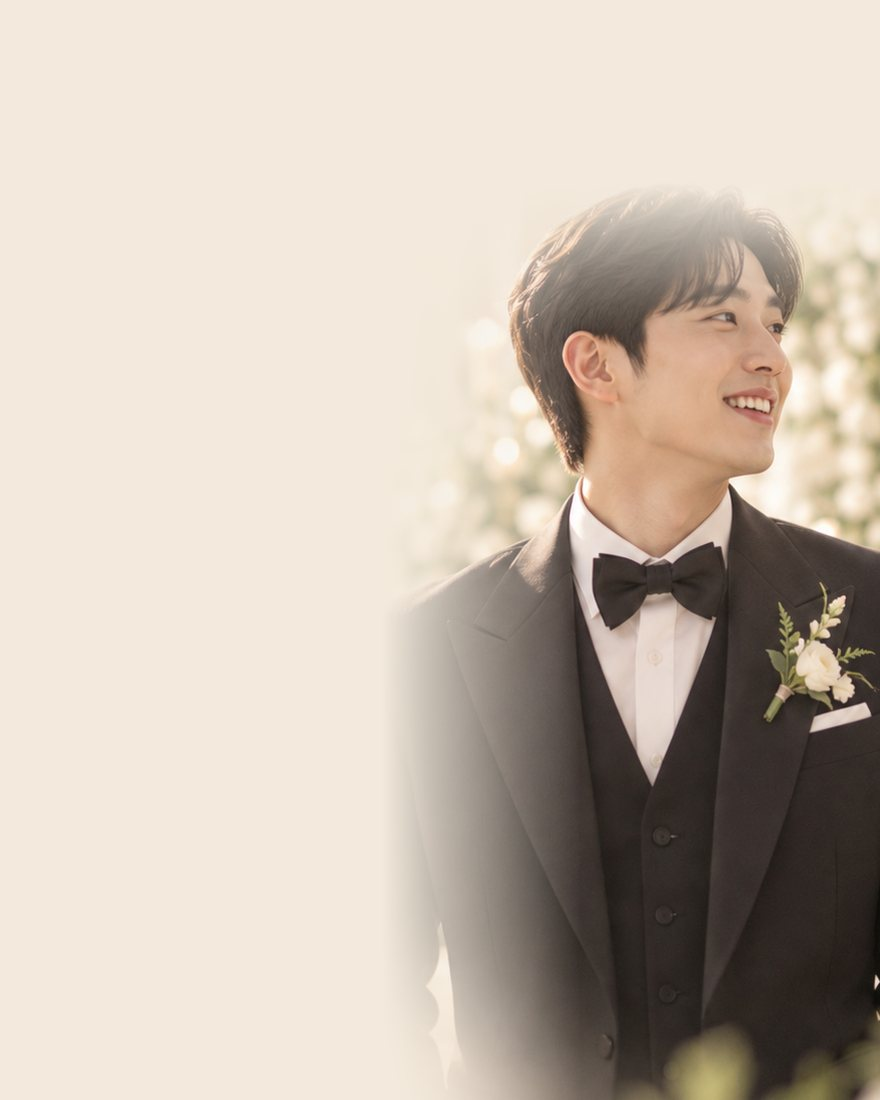
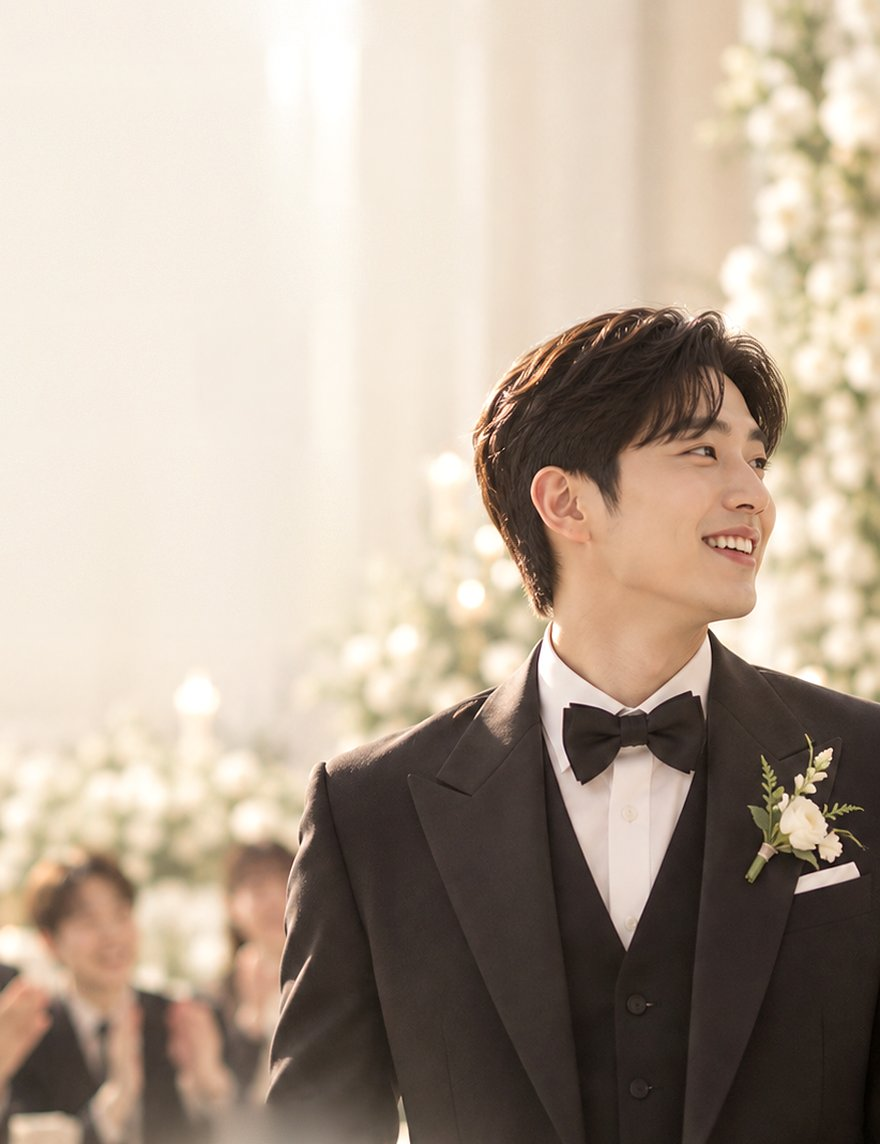
팝업 카드결제 장 사진 교체·가격안내 이벤트 스타일·요금제 순서 변경 (#22)
* 팝업 카드결제 장: 문구 테두리 제거·정렬, 밝은 여백에 예식장 사진 흐리게

Claude-Session: https://claude.ai/code/session_01DHJP4KRpMW8Vb4EdE8DdDH

* 팝업 카드결제 장 문구 칩 제거·배경 사진 선명하게, 가격안내 이벤트 문구·라벨 테두리 제거, 스탠다드·스몰양가 순서 변경

Claude-Session: https://claude.ai/code/session_01DHJP4KRpMW8Vb4EdE8DdDH

* 메인 요금 카드·예약 창 요금제 순서도 스몰케어→스탠다드→스몰양가→프리미엄으로

Claude-Session: https://claude.ai/code/session_01DHJP4KRpMW8Vb4EdE8DdDH

---------

diff --git a/src/app/pricing/page.tsx b/src/app/pricing/page.tsx
@@ -26,20 +26,20 @@ const CARDS = [
     bullets: ["하객 100명 이하 예식 (신랑측 또는 신부측)", "웨딩버틀러 2명 배정", "축의금 접수 · 봉투 번호 기록 · 하객 안내", "봉투 · 식대 집계 엑셀 파일 제공"],
   },
   {
-    plan: "smallboth" as const,
-    eyebrow: "02 SMALL BOTH",
-    name: "스몰양가",
-    priceWhole: "40",
-    dark: false,
-    bullets: ["양가 각 하객 60명 이하 예식", "웨딩버틀러 2명 배정", "양가 통합 축의대 1곳 운영 · 통합 기록", "봉투 · 식대 집계 엑셀 파일 제공"],
-  },
-  {
     plan: "standard" as const,
-    eyebrow: "03 STANDARD",
+    eyebrow: "02 STANDARD",
     name: "스탠다드",
     priceWhole: "45",
     dark: true,
     bullets: ["하객 101~200명 예식 (신랑측 또는 신부측, 200명 초과 시 1명당 2,000원 추가)", "웨딩버틀러 2명 배정", "스몰케어 구성 포함 · 정산 리포트 제공", "버틀러 추가 가능 (1명당 100,000원)"],
+  },
+  {
+    plan: "smallboth" as const,
+    eyebrow: "03 SMALL BOTH",
+    name: "스몰양가",
+    priceWhole: "40",
+    dark: false,
+    bullets: ["양가 각 하객 60명 이하 예식", "웨딩버틀러 2명 배정", "양가 통합 축의대 1곳 운영 · 통합 기록", "봉투 · 식대 집계 엑셀 파일 제공"],
   },
   {
     plan: "premium" as const,
@@ -70,22 +70,22 @@ const PRICING_LD = {
   })),
 };
 
-const COMPARE_HEAD = ["스몰케어", "스몰양가", "스탠다드", "프리미엄"];
+const COMPARE_HEAD = ["스몰케어", "스탠다드", "스몰양가", "프리미엄"];
 
 const COMPARE_ROWS: [string, string, string, string, string][] = [
-  ["기본 요금", "39만원", "40만원", "45만원", "80만원"],
-  ["축의대 유형", "한측 축의대", "양가 통합 (1곳)", "한측 축의대", "양가 분리 (2곳)"],
-  ["기준 하객", "100명 이하", "양가 각 60명 이하", "101~200명", "양가 합계 400명"],
+  ["기본 요금", "39만원", "45만원", "40만원", "80만원"],
+  ["축의대 유형", "한측 축의대", "한측 축의대", "양가 통합 (1곳)", "양가 분리 (2곳)"],
+  ["기준 하객", "100명 이하", "101~200명", "양가 각 60명 이하", "양가 합계 400명"],
   ["배정 버틀러", "2명", "2명", "2명", "4명"],
-  ["제공 자료", "봉투·식대 집계 엑셀", "봉투·식대 집계 엑셀", "정산 리포트", "정산 리포트"],
+  ["제공 자료", "봉투·식대 집계 엑셀", "정산 리포트", "봉투·식대 집계 엑셀", "정산 리포트"],
   ["기준 초과 하객", "1명당 2,000원", "1명당 2,000원", "1명당 2,000원", "1명당 2,000원"],
-  ["버틀러 추가", "해당 없음", "해당 없음", "1명 10만원", "1명 10만원"],
+  ["버틀러 추가", "해당 없음", "1명 10만원", "해당 없음", "1명 10만원"],
   ["개봉 집계", "무료", "무료", "무료", "무료"],
 ];
 
 const EVENT_ROW: [string, string, string, string, string] = [
   "연말 이벤트가",
-  ...(["small", "smallboth", "standard", "premium"] as const).map((k) => EVENT.prices[k] / 10000 + "만원"),
+  ...(["small", "standard", "smallboth", "premium"] as const).map((k) => EVENT.prices[k] / 10000 + "만원"),
 ] as [string, string, string, string, string];
 
 const EXTRA_COSTS = [
@@ -258,11 +258,15 @@ export default function PricingPage() {
         <h1 style={{ fontFamily: fontSerif, fontSize: "clamp(27px,6.2vw,40px)", fontWeight: 600, margin: "0 0 18px", letterSpacing: "-0.02em" }}>가격안내</h1>
         <p style={{ fontSize: 16, lineHeight: 1.9, color: "#6B5A60", margin: 0 }}>하객 규모와 축의대 유형에 맞춰 네 가지로 준비했습니다. 모든 금액은 부가세 포함입니다.</p>
         {eventOn && (
-          <div style={{ display: "inline-flex", flexWrap: "wrap", justifyContent: "center", alignItems: "center", gap: "6px 12px", marginTop: 24, padding: "12px 22px", borderRadius: 999, background: "#33232A", color: "#F3E9EB", fontSize: 14, lineHeight: 1.6 }}>
-            <span style={{ background: "#A9647E", color: "#FFFFFF", fontSize: 11.5, letterSpacing: "0.12em", padding: "3px 10px", borderRadius: 999 }}>EVENT</span>
-            <span>
-              {EVENT.name} · <b style={{ fontWeight: 500, color: "#FFFFFF" }}>{EVENT.label}</b> 이벤트가 적용 (밀봉 · 개봉 집계 모두)
-            </span>
+          <div style={{ marginTop: 30 }}>
+            <p style={{ fontFamily: fontDisplay, fontSize: 13, letterSpacing: "0.36em", color: "#A9647E", margin: "0 0 8px", display: "flex", alignItems: "center", justifyContent: "center", gap: 12 }}>
+              <span style={{ width: 28, height: 1, background: "#C99AAB" }} />
+              YEAR-END EVENT
+              <span style={{ width: 28, height: 1, background: "#C99AAB" }} />
+            </p>
+            <p style={{ fontSize: 15.5, lineHeight: 1.7, color: "#8E3F5F", margin: 0 }}>
+              {EVENT.name} · <b style={{ fontWeight: 600 }}>{EVENT.label}</b> 이벤트가 적용 <span style={{ color: "#9A8189" }}>(밀봉 · 개봉 집계 모두)</span>
+            </p>
           </div>
         )}
       </section>
@@ -306,7 +310,7 @@ export default function PricingPage() {
               </span>
               {eventPrice !== null && (
                 <div style={{ display: "flex", alignItems: "center", gap: 8, fontSize: 13 }}>
-                  <span style={{ background: "#A9647E", color: "#FFFFFF", fontSize: 11.5, padding: "3px 9px", borderRadius: 999 }}>연말 이벤트가</span>
+                  <span style={{ fontSize: 13, fontWeight: 600, letterSpacing: "0.02em", color: c.dark ? "#E9CAD1" : "#A9647E" }}>✦ 연말 이벤트가</span>
                   <span style={{ color: c.dark ? "#B79AA3" : "#A8959B", textDecoration: "line-through" }}>{c.priceWhole}만원</span>
                 </div>
               )}

diff --git a/src/components/home/HomePopup.tsx b/src/components/home/HomePopup.tsx
@@ -23,7 +23,6 @@ interface Slide {
   image: string;
   imagePosition: string;
   eyebrow?: string;
-  chip?: ReactNode;
   title: ReactNode;
   sub: ReactNode;
   highlight?: ReactNode;
@@ -33,16 +32,6 @@ interface Slide {
 
 function todayKst(): string {
   return new Date(Date.now() + 9 * 3600 * 1000).toISOString().slice(0, 10);
-}
-
-function CardIcon() {
-  return (
-    <svg width="22" height="16" viewBox="0 0 22 16" fill="none" aria-hidden="true">
-      <rect x="0.75" y="0.75" width="20.5" height="14.5" rx="2.5" stroke="#33232A" strokeWidth="1.5" />
-      <path d="M1 5h20" stroke="#33232A" strokeWidth="2" />
-      <path d="M4 11h5" stroke="#33232A" strokeWidth="1.5" strokeLinecap="round" />
-    </svg>
-  );
 }
 
 function buildSlides(): Slide[] {
@@ -75,12 +64,6 @@ function buildSlides(): Slide[] {
     theme: "light",
     image: "/popup/card-payment.jpg",
     imagePosition: "50% 50%",
-    chip: (
-      <>
-        <CardIcon />
-        전액 카드결제 가능
-      </>
-    ),
     title: (
       <>
         예약할 때 카드로,
@@ -286,23 +269,6 @@ export function HomePopup() {
                 <span style={{ width: 22, height: 1, background: "#F1D9DF", opacity: 0.8 }} />
                 {slide.eyebrow}
               </p>
-            )}
-            {slide.chip && (
-              <div
-                style={{
-                  display: "inline-flex",
-                  alignItems: "center",
-                  gap: 10,
-                  padding: "8px 14px 8px 10px",
-                  marginBottom: 16,
-                  fontSize: 13,
-                  borderRadius: 999,
-                  border: "1px solid #D9C6CC",
-                  background: "rgba(255,255,255,0.6)",
-                }}
-              >
-                {slide.chip}
-              </div>
             )}
             <h2 style={{ fontFamily: fontSerif, fontWeight: 600, fontSize: "clamp(26px,7vw,31px)", lineHeight: 1.35, margin: "0 0 12px", letterSpacing: "-0.02em" }}>{slide.title}</h2>
             <p style={{ fontSize: 14.5, lineHeight: 1.75, color: light ? "#5E4E54" : "rgba(255,255,255,0.86)", margin: 0 }}>{slide.sub}</p>

diff --git a/src/components/home/PriceTeaserCards.tsx b/src/components/home/PriceTeaserCards.tsx
@@ -31,12 +31,12 @@ const BULLETS: Record<PublicPlanKey, { text: string; muted?: boolean }[]> = {
 
 const EYEBROW: Record<PublicPlanKey, string> = {
   small: "01 SMALL CARE",
-  smallboth: "02 SMALL BOTH",
-  standard: "03 STANDARD",
+  smallboth: "03 SMALL BOTH",
+  standard: "02 STANDARD",
   premium: "04 PREMIUM",
 };
 
-const DELAY: Record<PublicPlanKey, number> = { small: 50, smallboth: 120, standard: 190, premium: 260 };
+const DELAY: Record<PublicPlanKey, number> = { small: 50, standard: 120, smallboth: 190, premium: 260 };
 
 export function PriceTeaserCards() {
   const [selected, setSelected] = useState<PublicPlanKey>("standard");

diff --git a/src/lib/plans.ts b/src/lib/plans.ts
@@ -12,7 +12,7 @@ export interface Plan {
 /** 일반 예약 화면에 보이는 요금제 (스페셜 제외) */
 export type PublicPlanKey = Exclude<PlanKey, "special">;
 
-export const PLAN_ORDER: PublicPlanKey[] = ["small", "smallboth", "standard", "premium"];
+export const PLAN_ORDER: PublicPlanKey[] = ["small", "standard", "smallboth", "premium"];
 
 export const PLANS: Record<PlanKey, Plan> = {
   small: {
